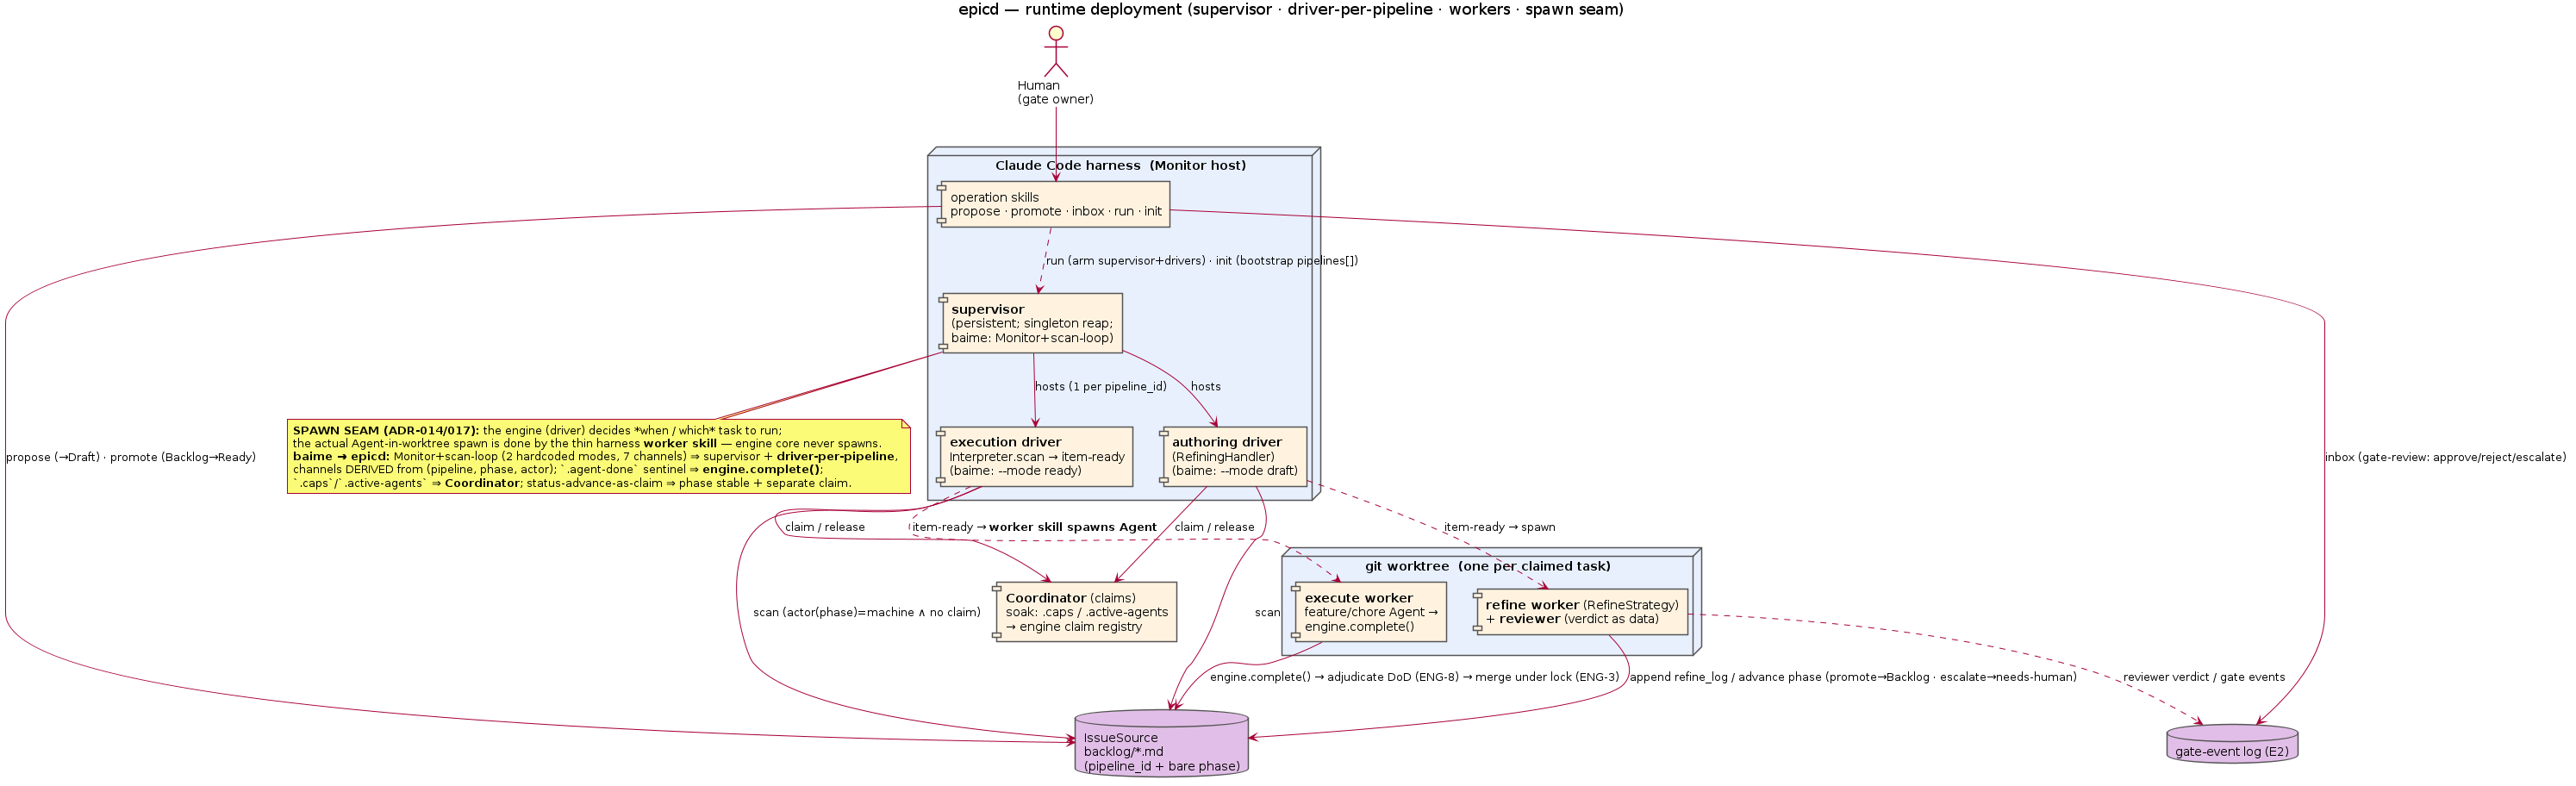
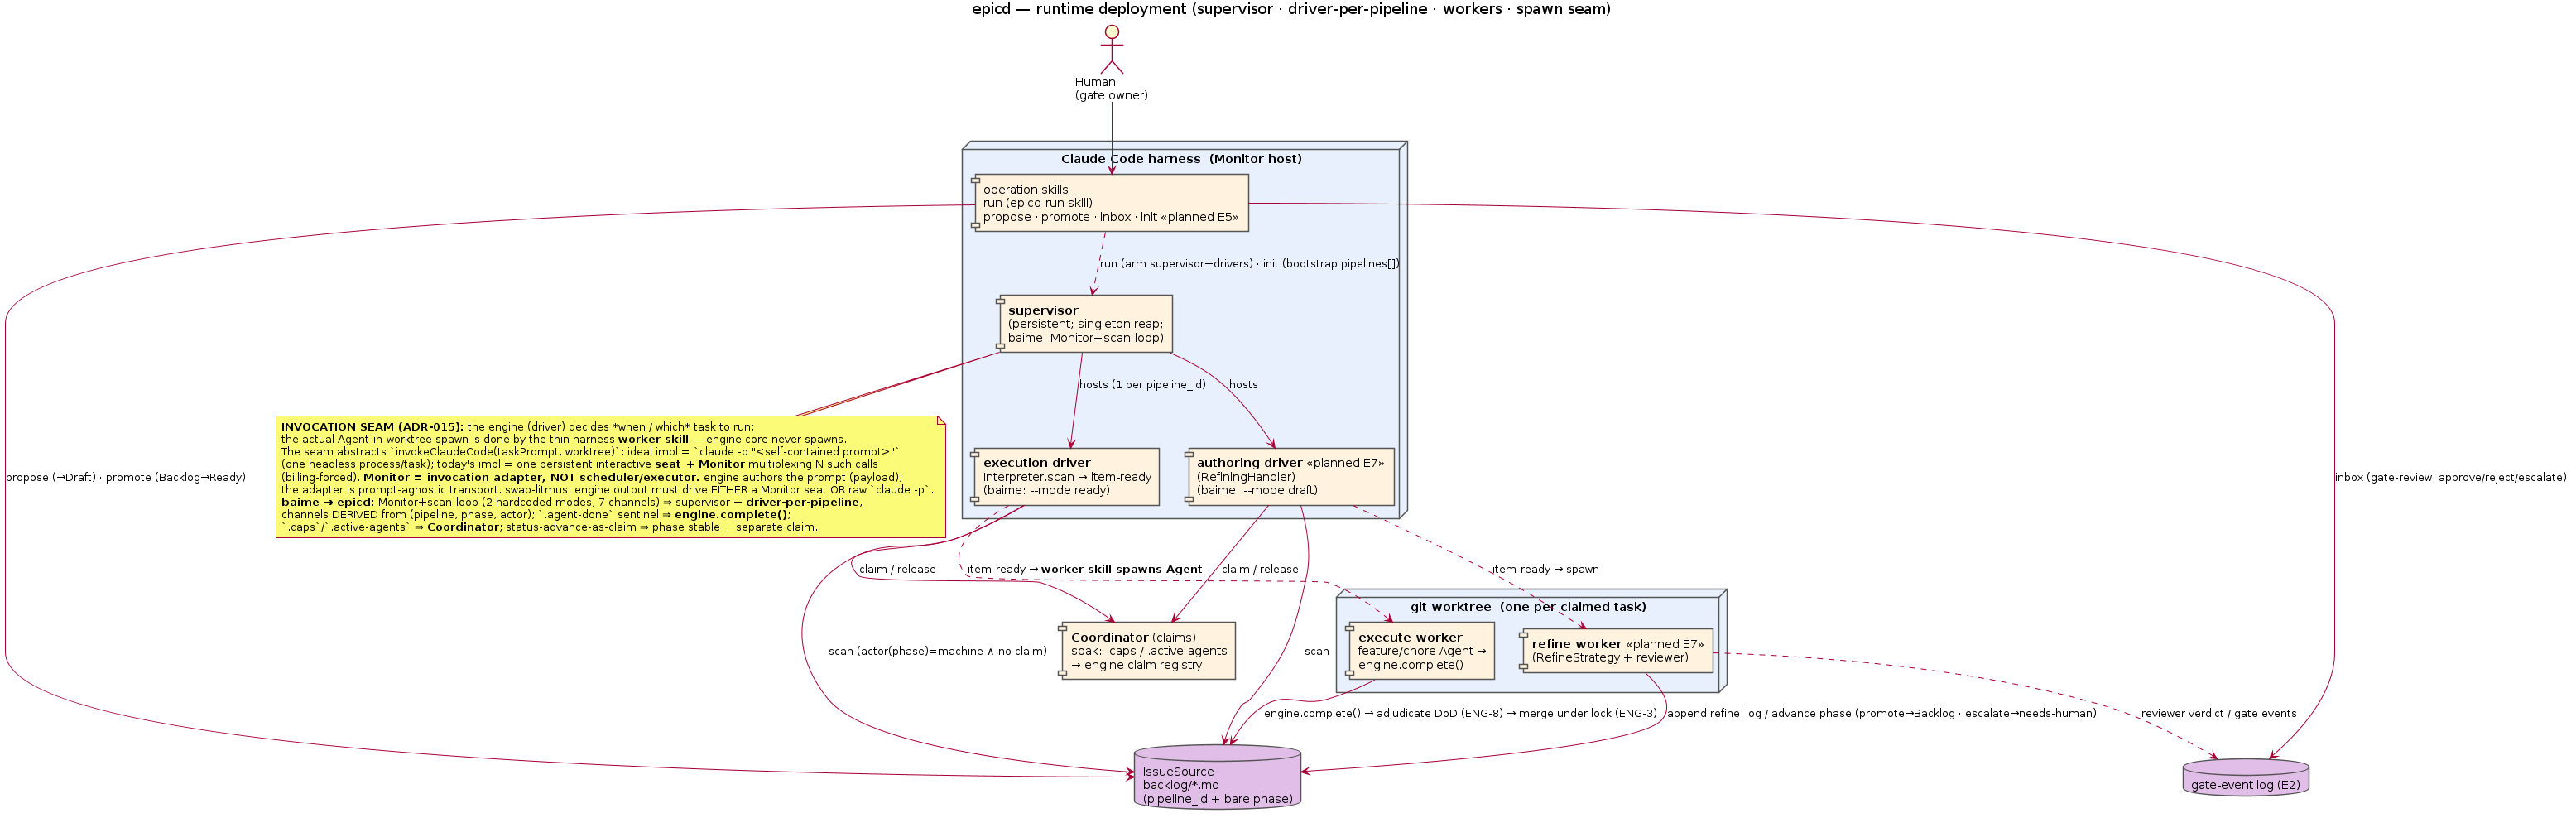
ADR-015: Monitor 是调用适配器，非调度/执行机制
引入 Monitor-as-invocation-adapter 框架：区分 supervisor / driver /
prompt-authoring / invocation-transport 四个正交角色，明确 Monitor 是
`claude -p` 因计费限制而生的替代实现，并给出 swap-litmus 作为该分层的
验收锚。据此更新 use-case-model.md 漂移表、runtime-deployment.puml
(spawn seam → invocation seam) 及配套 SVG/PNG，并在 BACK-625 中落地
scan-loop 瘦身为纯传输层的验收标准。

diff --git a/docs/adr/ADR-015-monitor-as-invocation-adapter.md b/docs/adr/ADR-015-monitor-as-invocation-adapter.md
@@ -1,0 +1,118 @@
+---
+adr: "015"
+title: "Monitor 是调用适配器：计费受迫下 `claude -p` 的替身，非调度/执行机制"
+status: Proposed
+date: 2026-07-05
+applies-to:
+  - "plugin/scripts/scan-loop.cjs"
+  - "src/engine/scan.ts"
+  - ".codex/skills/epicd-run/**"
+  - "docs/uml/runtime-deployment.puml"
+  - "docs/uml/use-case-model.md"
+enforcement: semantic
+stage: [proposal, plan]
+lint: null
+depends-on: ["ADR-011", "ADR-013"]
+ports: "无直接 baime 对应；厘清 baime Monitor+scan-loop 在 epicd 中的定位（runtime-deployment.puml 的 spawn seam → invocation seam）"
+generalizes: "use-case-model.md 漂移表『Monitor worker 歧义（横跨 supervisor+driver+worker）→ 拆分使用』"
+---
+
+# ADR-015: Monitor 是调用适配器 —— `claude -p` 的计费替身
+
+**Status**: Proposed（草案，2026-07-05）
+**Date**: 2026-07-05
+**Deciders**: Yale Huang
+**Ports**: 厘清 baime Monitor+scan-loop 在 epicd 的定位
+**Generalizes**: `use-case-model.md` 漂移表『"Monitor worker" 歧义 → 拆分使用』
+**Realized by**: BACK-625
+
+## Context
+
+从整个 epicd 系统看，Claude Code Monitor 是一种**驱动 Claude Code 执行自然语言文本描述的任务**的机制。在执行段，每个任务应相互独立。
+
+这本可以用 `claude -p "<task prompt>"` 实现——每任务一个 headless 进程，天然独立、并行、无状态。之所以改用 Monitor 机制，纯粹是因为 Anthropic 的计费限制：程序化/API-key 计量的 `claude -p` 规模使用被切断（见 References）。Monitor 是这个约束下的工程替代，**不是**架构上必要的调度或执行层。
+
+`docs/uml/runtime-deployment.puml` 已把 supervisor / driver-per-pipeline / worker 三者拆开，并把 engine→worker 的接缝叫 "SPAWN SEAM"。但 `use-case-model.md` 漂移表同时记了一条未解决的歧义：
+
+> **"Monitor worker" 歧义** —— 横跨 supervisor+driver+worker，自标"假定但未定义" → **拆分使用**
+
+本 ADR 给出这条歧义的确定答案：Monitor 与 supervisor/driver/worker 三者**正交**，它是**调用接缝（invocation seam）的一种实现**。
+
+## Decision
+
+### D1: invocation seam —— 抽象签名
+
+engine（driver）决定 *when / which* 任务运行；实际"运行一个任务"是一次 Claude Code 调用，抽象为：
+
+```
+invokeClaudeCode(taskPrompt, worktree) → CompletionResult
+```
+
+`runtime-deployment.puml` 的 "SPAWN SEAM" 正名为 **invocation seam**。它有两种实现：
+
+| | 理想态（无计费约束） | 现实态（计费约束，今天） |
+|---|---|---|
+| 实现 | `claude -p "<自包含 prompt>"` | 一个常驻交互 seat 挂 Monitor 多路复用 |
+| 触发 | 调用者主动 spawn 进程 | `item-ready` → stdout 事件 → session 收到 → spawn 背景 Agent |
+| 独立性来源 | 进程隔离 + 独立 cwd | Agent 独立上下文 + 独立 worktree |
+| 并行 | 天然多进程 | 单 seat 多路复用 |
+
+**Monitor = 让一个交互 seat 冒充 N 个独立 `claude -p` 调用的多路复用适配器。** 它的职责是传输 + 扇出 + seat 存活管理，既非调度（driver/engine），亦非执行（spawned Agent）。
+
+### D2: 四角色归位
+
+scan-loop.cjs 今天把四个正交角色焊成一块。正确归属：
+
+| 角色 | 职责 | 归属 |
+|---|---|---|
+| **supervisor** | 单例/存活：EPIPE 自愈、reap same-field peer、one-per-(sourceId,pipeline_id) | monitor 适配器 |
+| **invocation transport**（真正的 "Monitor"） | 把 item-ready 当调用触发投给一个 seat；`---EVENT---` 分隔 | monitor 适配器 |
+| **driver** | scan `(pipeline_id, phase, actor=machine ∧ 无 claim)` → item-ready | engine（已归位 BACK-614） |
+| **prompt authoring** | 把任务变成自包含派发指令（prompt） | engine（BACK-625 搬离 scan-loop 的 renderEvent） |
+
+### D3: prompt authoring 归 engine，不归适配器
+
+engine emit 的自包含载荷 = 你要喂给 `claude -p` 的 prompt。把 prompt 渲染（renderEvent + 模板目录）留在 monitor 是**范畴错误**——等于 `claude -p` 自己伸手去模板目录改写你的入参。prompt 的作者是调度者（engine，它拥有 `phase → handler` 映射），调用者（monitor）必须对 prompt 内容 **agnostic**：它只按稳定机器键去重、整块透传，不解析、不重写。
+
+这是 ADR-013『指令结晶』在调用面的落地：指令由每 tick 的磁盘代码生成、随包分发；不落在 LLM 一次性写就、会退化的 Monitor `description` 里，也不落在与引擎和分发包脱节的第三方模板 artifact 里。
+
+### D4: swap-litmus（分层验收锚）
+
+> engine 对一个 actionable 任务的输出（机器键 + 自包含载荷），必须足以驱动**任一**实现——Monitor 多路复用 seat **或**裸 `claude -p <载荷>`——而 engine 一行不改。
+
+满足 swap-litmus ⇒ Monitor 从"焊死的执行机制"变为"可替换的调用适配器"。计费松绑后可换 `claude -p` 进程池、engine 零改动。这是 D1–D3 是否落地正确的唯一判据。
+
+### D5: 适配器专属机械不得上移进 engine
+
+`claude -p` 是 **push**：调用者主动 spawn 并 await，调度环握在调用者手里。Monitor 是**反转控制 / pull-ish**：engine 无法调用 session，只能 emit 事件、由碰巧在线的 session 接收；session 随 `/clear` 生灭，投递不可靠。
+
+因此 Monitor 适配器必须补两样 `claude -p` 不需要的机械：
+
+- **电平再浮现 + 自清除谓词**（ADR-009 血统 / 本仓自清除）——补偿不可靠投递（消息获取层，内存态、可 reset）。
+- **磁盘执行守卫 flock + `.caps`**——补偿"同一事件可能被多个/重启后的 seat 收到"（任务执行层，durable）。
+
+这两样是"在反转控制、单 seat、session 易逝信道上模拟一次可靠调用"的**代价**，是 Monitor 适配器的专属属性，**不是**抽象 driver 的属性。它们必须留在 scan-loop，绝不进 engine。engine 只按 `(pipeline_id, phase→machine-actor)` 谓词产 emit——一个 `claude -p` 实现会改用进程池管理取代这两样，而不触碰 engine。
+
+由此推出**消息获取 vs 任务执行**必须解耦（BACK-625 层 1 vs 层 3）：前者内存、随适配器生灭；后者磁盘、durable。二者仅通过看板执行状态喂给 engine 扫描来协调（自清除桥）。
+
+## Consequences
+
+- `use-case-model.md` 漂移表『Monitor worker 歧义』获终解：Monitor ≡ invocation adapter，与 supervisor/driver/worker 正交。漂移表与 runtime-deployment.puml 的 "spawn seam" 应更新为 "invocation seam" 并标注 D1 两种实现。
+- BACK-625 的目标从"清理模板路径 bug"升级为"让 monitor 可被 `claude -p` 替换"——swap-litmus（D4）成为其验收锚。
+- 未来若做 `claude -p` 驱动（自托管 / API-key 部署 / 计费松绑），只替换 invocation seam 的实现，engine/driver 不改；适配器专属机械（D5）换成进程池管理。
+- 明确禁止把存活/单例/自清除逻辑"顺手"挪进 engine（常见的错误抽象方向）。
+
+## Alternatives Considered
+
+- **把 Monitor 当 driver / 调度器**：混淆 when/which（engine 的职责）与 how-to-invoke（适配器的职责）；使 engine 绑死单一调用形态，`claude -p` 无法替换。否决。
+- **prompt 留在 Monitor 模板（baime 现状）**：baime 无引擎，模板是其唯一合理载体；epicd 有引擎，模板成为与引擎/分发包脱节的第三 artifact（本会话路径 bug 的根）。否决——见 ADR-013 D3 + BACK-625。
+- **指令内嵌 Monitor `description`**：description 由 LLM 在 arm 时写一次、compact 后凭记忆重写→退化（baime ADR-013 记录的实测故障）。否决。
+
+## References
+
+- Anthropic 切断程序化 `claude -p` 规模使用：https://www.reddit.com/r/ClaudeCode/comments/1tccd7c/its_official_anthropic_pulled_the_plug_on_all/
+- `docs/uml/runtime-deployment.puml`（spawn seam / supervisor·driver·worker 部署图）
+- `docs/uml/use-case-model.md`（漂移表『Monitor worker 歧义』、actor『Claude Code Monitor host』）
+- ADR-011（workitem schema / pipeline contract；D-2.1 结构进数据、逻辑进 handler）
+- ADR-013（结晶/熔融载体分配律；D3 指令结晶）
+- BACK-614（driver/scan 归位 engine，scan 发机器行）、BACK-625（prompt authoring 归位 engine，scan-loop 瘦身为纯传输 + swap-litmus）

diff --git a/backlog/tasks/back-625 - engine-产出自包含派发指令，scan-loop-瘦身为纯传输：解耦消息获取与任务执行.md b/backlog/tasks/back-625 - engine-产出自包含派发指令，scan-loop-瘦身为纯传输：解耦消息获取与任务执行.md
@@ -1,0 +1,110 @@
+---
+id: BACK-625
+title: engine 产出自包含派发指令，scan-loop 瘦身为纯传输：解耦消息获取与任务执行
+status: 'Basic: Proposal'
+assignee:
+  - '@claude'
+created_date: '2026-07-05 02:30'
+updated_date: '2026-07-05 02:54'
+labels:
+  - 'kind:refactor'
+dependencies: []
+ordinal: 35000
+---
+
+## Description
+
+<!-- SECTION:DESCRIPTION:BEGIN -->
+## 为什么
+
+本会话实跑 epicd-run 时发现：scan-loop.cjs 的 renderEvent 走 fallback，所有事件降级为裸 `prefix:id`。根因是 `resolveTemplatesDir` 硬编码默认路径 `plugin/skills/loop-backlog/templates/`（不存在；唯一模板在 `.codex/skills/epicd-run/templates/basic-ready.md`），且 SKILL 未像 baime 那样显式传 `--templates-dir`。
+
+但路径 bug 只是症状。更深的问题是**分层**：epicd 有引擎（src/engine/，pipeline/phase/actor→handler 的单一真相源），而 scan-loop 却拿一个搁在 `.codex/skills/.../templates/`、与引擎和 npm 分发包（package.json `files: ["scripts/*.cjs"]` + 单二进制 build）都脱节的 .md 文件重新编码"phase=ready 该干嘛"。这是两个真相源，也是路径耦合 bug 的温床。任何 `__dirname` 相对的模板查找在 npm 安装 / 编译二进制下都会断。
+
+参照 baime 演化史（ADR-012/013/014）：per-event 指令的正确载体是"磁盘代码每 tick 生成的 stdout"（免疫 compact），不是 LLM 写一次的 Monitor description（会退化）。baime 把指令放进磁盘 template 由 scanner 渲染；但 baime 没有引擎，template 是它唯一合理载体。epicd 有引擎，能把指令产出下沉到引擎，做 baime 结构上做不到的解耦。
+
+## 核心洞察：三层正交解耦
+
+当前 scan-loop 把"消息获取"和"任务执行"焊在一起（共用 `prefix:id` 键 + 在同一 tick 里既扫执行状态又渲染指令）。实际是三个正交关注点：
+
+1. **信号身份**（稳定机器键 `prefix:id`）— 只服务 acquisition 边沿去重 + 自清除谓词。内存态、随 scanner 生命周期、重启即 reset（正确：新 session 须让存量 actionable 重新浮现，ADR-012 B2）。scanner 独有。
+2. **指令载荷**（自包含派发文本，含绝对路径 handler 命令 + 反分诊守则）— 由执行语义权威（引擎）产出，scanner 当不透明字节透传，不解析、不渲染。
+3. **执行守卫**（flock exec-lock + .caps cap 标记 + status 迁移）— worker 独有、磁盘上、durable 跨重启。ADR-012 C1/C2。现状已正确（handle-basic-ready.sh），不改。
+
+关键推论：acquisition 去重永远只看信号身份（层 1），从不看载荷（层 2）。所以载荷可以任意富，dedup 一字节不改——"富消息怎么去重"是把两层焊死才臆想出的伪问题。
+
+## 目标形态
+
+- **引擎 `engine scan`（src/engine/scan.ts）**：每条 actionable 不再只发裸 `basic-ready:<id>`，而发【首行稳定机器键 `basic-ready:<id>`】+【其后多行自包含载荷】。载荷含：task 标题、handle-basic-ready.sh 绝对路径命令、spawn agent 指令、engine complete 收尾、以及反分诊守则（不要 arm 新 Monitor / 不要问用户确认 / 非事件输出丢弃）。引擎拥有 phase→handler 映射，是产载荷的正确权威。
+- **scanner `scan-loop.cjs`**：读引擎行 → 按首行机器键做 edge-dedup（`notified` Map 逻辑不变）→ 整块透传 + `---EVENT---`。删除 renderEvent / resolveTemplatesDir / --templates-dir / 模板目录依赖。只保留 dedup + 生命周期（EPIPE 自愈 / singleton / trap 停止）。`.codex/skills/epicd-run/templates/basic-ready.md` 降为纯人类文档或删除。
+- **Monitor description（epicd-run SKILL）**：删"Each stdout line is a self-contained instruction — follow it verbatim"这句 meta 话术（载荷本身是祈使句，自证是指令）；反分诊守则已进载荷。
+
+## 必须保留的桥（不可拆）
+
+acquisition（内存、电平再浮现）与 execution（磁盘、durable 已认领）通过**看板执行状态喂给引擎扫描**协调：任务被 claim → 离开 ready → 从 `engine scan` 结果消失 → edge-clear 出 `notified` → 停止再发。这是自清除谓词（ADR-009）。重构后引擎 emit 仍须由 interpreter.scan 的 (pipeline_id, phase→machine-actor) 谓词驱动，保证已认领任务自动掉出 emit 集。拆了这座桥 = 已认领任务被反复重发 或 冷启动看不到存量。
+
+## 范围与非目标
+
+- 本任务只做 execution 车道 `basic-ready`（最高频、已验证的通道）。epic-ready / epic-eval-due / review-due 的富载荷留后续（它们目前连模板都没有，且 handler 更复杂）。
+- 不改 handle-basic-ready.sh / engine complete / worker 执行守卫（层 3 已正确）。
+- 不做 baime 式 adapter/config 外置化（epicd 单引擎，无需可插拔源）。
+- 保留 `--scan-once` 发裸 `prefix:id`（探测/测试用），只有 `--loop` 发富载荷。
+
+## 参考
+
+- 被纠正的前案：BACK-614（把 renderEvent+模板定为"scan-loop 单一渲染器"——本任务推翻这个定位，改由引擎产载荷）。
+- baime：docs/adr/ADR-012（Monitor 行为契约 A/B/C 三组）、ADR-013（description 退化故障 + Amendment 指令载体迁移）、ADR-014（结晶/熔融相变边界）；plugin/scripts/monitor-poll.ts（当前 renderEvent 位置 line 733）；plugin/skills/monitor/SKILL.md line 70-72（显式警告漏传 --templates-dir 会降级——epicd 正是抄漏了这半）。
+- src/engine/scan.ts（现 scanReadyLines，发裸行）、src/engine/interpreter.ts（scan 谓词）、src/engine/pipeline.ts（phase→actor）、plugin/scripts/scan-loop.cjs（现 renderEvent/resolveTemplatesDir/tick dedup）。
+<!-- SECTION:DESCRIPTION:END -->
+
+## Acceptance Criteria
+<!-- AC:BEGIN -->
+- [ ] #1 engine scan --loop 路径为每个 actionable basic-ready 任务发出【首行 basic-ready:<id> 机器键 + 其后自包含多行载荷】；载荷含 handle-basic-ready.sh 的绝对路径命令、spawn agent 指令、engine complete 收尾、反分诊守则
+- [ ] #2 engine scan --once 仍只发裸 basic-ready:<id>（探测/测试语义不变）
+- [ ] #3 scan-loop.cjs 删除 renderEvent / resolveTemplatesDir / --templates-dir / 模板目录读取；tick 按首行机器键做 edge-dedup 并整块透传载荷 + ---EVENT---
+- [ ] #4 自清除桥保留：被 claim 的任务（离开 phase=ready）在下一 tick 掉出 emit 集并 edge-clear 出 notified，不再重发（回归测试覆盖）
+- [ ] #5 epicd-run SKILL 的 Monitor description 删除 'Each stdout line is a self-contained instruction — follow it verbatim'；反分诊守则改由载荷承载
+- [ ] #6 分发无关正确性：载荷生成不依赖任何 __dirname 相对的外部文件查找，npm 安装形态（scripts/*.cjs）与单二进制 build 下均产出完整载荷
+- [ ] #7 worker 执行守卫（flock/caps/status）与 handle-basic-ready.sh、engine complete 不改；BACK-624 式 basic-ready→claim→执行→complete 全链路端到端仍通过
+- [ ] #8 swap-litmus（分层验收锚）：engine 对一个 actionable 任务的输出（机器键 + 自包含载荷）足以驱动任一实现——Monitor 多路复用 seat 或裸 `claude -p <载荷>`——而 engine 一行不改。载荷即 -p 入参，monitor 对其内容 agnostic
+- [ ] #9 存活/单例/自清除机械（EPIPE 自愈、singleton reap、level-trigger 电平再浮现）是 Monitor 适配器专属，留在 scan-loop，绝不进 engine；engine 只按 (pipeline_id, phase→machine-actor) 谓词产 emit
+- [ ] #10 翻转 L1 守护测试 src/test/epicd-run-wiring.test.ts：现断言 'preserves renderEvent templating'（line 46-47）+ 依赖 .codex/skills/epicd-run/templates/basic-ready.md 存在——这是锁死旧模板架构的静态不变量。改为断言 scan-loop.cjs 无 renderEvent/templatesDir、engine scan 产自包含载荷、模板文件不再是 dispatch 权威
+<!-- AC:END -->
+
+## Implementation Notes
+
+<!-- SECTION:NOTES:BEGIN -->
+## 架构定位（2026-07-05，参 docs/uml/runtime-deployment.puml + use-case-model.md 漂移表 + ADR-014）
+
+本任务的定位由一个系统级重构厘清：**Monitor 不是调度或执行机制，而是对 Claude Code 调用的封装——计费受迫下 `claude -p` 的替身**。
+
+- invocation seam 的抽象签名 = `invokeClaudeCode(taskPrompt, worktree) → CompletionResult`。两种实现：理想态 `claude -p "<自包含 prompt>"`（每任务一 headless 进程，天然独立/并行/无状态）；现实态一个常驻交互 seat 挂 Monitor 多路复用（item-ready→stdout→session 收到→spawn 背景 Agent，Agent 才是 `claude -p` 等价体）。Monitor = 让一个 seat 冒充 N 个独立 `claude -p` 的多路复用适配器。
+- 四角色归位：**supervisor**（单例/存活）+ **invocation transport**（把 item-ready 投给 seat）留在 monitor 脚本；**driver**（scan→item-ready，已归位 BACK-614）+ **prompt authoring**（本任务搬走的 renderEvent）归 engine。
+- engine emit 的自包含载荷 = 你要喂 `claude -p` 的 prompt。renderEvent 待在 monitor 是范畴错误（等于 `claude -p` 伸手去模板目录改写入参）。
+- push vs pull 差异（为何仍需层 1/层 3 解耦）：`claude -p` 是 push（调用者 await）；Monitor 是反转控制（engine 只能 emit，session 随 /clear 生灭、投递不可靠）。电平再浮现+自清除（ADR-009）补偿不可靠投递、flock+caps 补偿重复投递——这是"在反转控制、单 seat、session 易逝信道上模拟一次可靠调用"的代价，裸 `claude -p` 无此代价。
+
+验收锚：满足 swap-litmus ⇒ monitor 从"焊死的执行机制"变为"可替换的调用适配器"，计费松绑后可换 `claude -p` 进程池、engine 零改动。
+
+（编号更正）上条架构定位引用的 ADR 应为 **ADR-015**（Monitor 是调用适配器 —— `claude -p` 的计费替身）；ADR-014 已被 adr-as-contract-harness 提案占用。swap-litmus 的规范锚在 ADR-015 D4。
+
+## 同步影响面清点（2026-07-05 扫描结果）
+
+**必须随本任务改（实现耦合）**：
+- src/test/epicd-run-wiring.test.ts —— 现锁旧设计：`it("preserves renderEvent templating")` 断言 scan-loop 含 renderEvent；`describe(".codex/skills/epicd-run/templates/basic-ready.md")` 断言模板文件在。本任务须翻转这些断言（见新增 AC）。此测试是 BACK-614 立的 L1 不变量，是"旧设计的守门测试"，不翻它 build 不会绿。
+- .codex/skills/epicd-run/SKILL.md —— Monitor description 删"Each stdout line is a self-contained instruction"（已在 AC）。
+- .codex/skills/epicd-run/templates/basic-ready.md —— 载荷移入 engine 后降为纯人类文档或删除（已在描述）。
+
+**已随本轮文档同步（非本任务代码范围）**：
+- docs/adr/ADR-015（新）、docs/uml/use-case-model.md 漂移表、docs/uml/runtime-deployment.puml + 重生成的 svg/png、docs/proposals/2026-07-03-driver-supervisor-multi-lane-runtime.md（Monitor 行加 ADR-015 前向指针）。
+
+**判定无需改**：
+- ADR-012 引用 baime ADR-017（ENG-8 信任模型）—— 与本定位正交，无冲突。
+- "monitor 驱动的 Claude Code"措辞（use-case-model §5、multi-lane proposal）—— 语义是"经 monitor 驱动的 CC"，非"monitor 即 driver"，ADR-015 已澄清，保留。
+<!-- SECTION:NOTES:END -->
+
+## Definition of Done
+<!-- DOD:BEGIN -->
+- [ ] #1 bunx tsc --noEmit passes when TypeScript touched
+- [ ] #2 bun run check . passes when formatting/linting touched
+- [ ] #3 bun test (or scoped test) passes
+<!-- DOD:END -->

diff --git a/docs/uml/use-case-model.md b/docs/uml/use-case-model.md
@@ -46,7 +46,7 @@
 | **AI Agent** | MCP client · worker · implementer Agent · **Handler**(代码座) · decomposer(规划变体) | 经 MCP 操作 backlog；被 spawn 时即执行体。 |
 | **Architect Reviewer** | 独立 Agent reviewer · architect 评审 · posterior review · (gate) actor: llm | authoring 内 fan-out 的独立上下文 LLM，评审 proposal/plan 至 APPROVED。 |
 | **IssueSource** | LocalIssueSource(唯一实现) · 远程 GitHub/GitLab(stub) · `sourceId` · (旧)`tasksDir` | 存储无关 task 数据源（BACK-601.1）。上游 = fork 自 Backlog.md。 |
-| **Claude Code Monitor host** | Monitor(persistent) · harness · daemon | 承载并驱动自驱环的外部宿主；今天由它 + baime `scan-loop.js` 供电。 |
+| **Claude Code Monitor host** | Monitor(persistent) · harness · daemon | 承载并驱动自驱环的外部宿主；今天由它 + baime `scan-loop.js` 供电。**定位（ADR-015）**：Monitor 是 **invocation adapter**（`claude -p` 的计费替身），非调度/执行——见漂移表 invocation seam 行。 |
 | **baime** | GCL/methodology(消费 payload) · old loop-backlog(soak fallback/冷备) · M2 采用方 | 解释 gate-event payload（E/C/H、GCL）。 |
 
 ## Work-item 层次厘清（feature/task/epic）
@@ -80,7 +80,8 @@ Done ；DoD fail/epic 评估异常 → needs-human（gate-review 在 issue-list 
 | 伞形系统 | 引擎/engine/engine core/`epicd`/受管 Bun 服务/daemon(`-d`) | ADR-011 header；ADR-010 | **engine / epicd** |
 | 监督层 | supervisor/监督器/受管 Bun 服务/**Monitor**/供电 | driver-supervisor §4.3；authoring §4.1 | **supervisor** |
 | 单车道循环 | driver/驱动器/**Monitor worker(主循环)**/scan-loop.js/**scanner** | driver-supervisor §4.2；ADR-012 ENG-6 | **driver** |
-| "Monitor worker" 歧义 | 横跨 supervisor+driver+worker，自标"假定但未定义" | authoring §4.1/4.2 vs driver-supervisor §1 | 拆分使用 |
+| "Monitor worker" 歧义 | 横跨 supervisor+driver+worker，自标"假定但未定义" | authoring §4.1/4.2 vs driver-supervisor §1 | **拆分（ADR-015 定案）**：Monitor ≡ **invocation adapter**，与 supervisor/driver/worker 正交 |
+| **invocation seam / Monitor 定位** | spawn seam（runtime-deployment）· Monitor · daemon | ADR-015；runtime-deployment.puml | **invocation adapter**：`claude -p` 的计费替身（多路复用一个 seat 冒充 N 个独立 `claude -p`）；非调度/执行。四角色归位：supervisor+transport→适配器，driver+prompt-authoring→engine。swap-litmus = engine 输出足以驱动 Monitor seat 或裸 `claude -p` 而 engine 不改 |
 | 纯函数核 | 解释器/interpreter/极小解释器/Bun 引擎核 | ADR-011 D-2；ADR-013 D1 | **interpreter** |
 | 执行体 | worker/执行体/implementer Agent/**Handler**(代码) | driver-supervisor §4.4；ADR-012 ENG-8 | **Handler**(代码)/worker(文档) |
 | LLM 裁判 | 独立 Agent reviewer/architect 评审/posterior review/actor:llm | authoring §4.1；ADR-011 D-2 | **architect reviewer** |

diff --git a/docs/proposals/2026-07-03-driver-supervisor-multi-lane-runtime.md b/docs/proposals/2026-07-03-driver-supervisor-multi-lane-runtime.md
@@ -43,6 +43,9 @@ baime 的 `loop-backlog` / `loop-draft` 是**仍在跑的原型**，它的运行
 | `mode`（`ready`/`draft`） | 一组可动作谓词的投影 = **一条车道** | **pipeline**（`pipeline_id`） | `executionPipeline` 已有；authoring 待建 |
 | `scan-loop.js`（自 reap 单例、`/proc` 自省、pulse 行协议） | 车道的**驱动器 driver** | 待建 `src/engine/driver.ts`（BACK-600.4） | **缺**（只有纯函数 scan/dispatch） |
 | Monitor（Claude Code 内编排器，SKILL 只 arm 它） | 车道的**监督/供电** supervisor | 待建 受管 Bun 服务（ADR-010 提及） | **缺** |
+<!-- 修订（ADR-015）：Monitor 的本质不是"编排器/调度"，而是 **invocation adapter**——`claude -p` 的
+     计费替身。它承担 supervisor（单例/存活）+ invocation transport（把 item-ready 投给一个 seat）两个
+     适配器角色；调度（when/which）属 driver/engine，prompt authoring 属 engine。见 docs/adr/ADR-015。 -->
 | channel（`basic-ready`/`epic-draft`…） | 车道内一个 actionable 谓词 | pipeline 的一个 actionable `state` | 已有 |
 | worker（templates + complete-task.sh，worktree 隔离） | 执行体 | worktree worker + `engine.complete()` | 待建（BACK-600.4/600.5） |
 